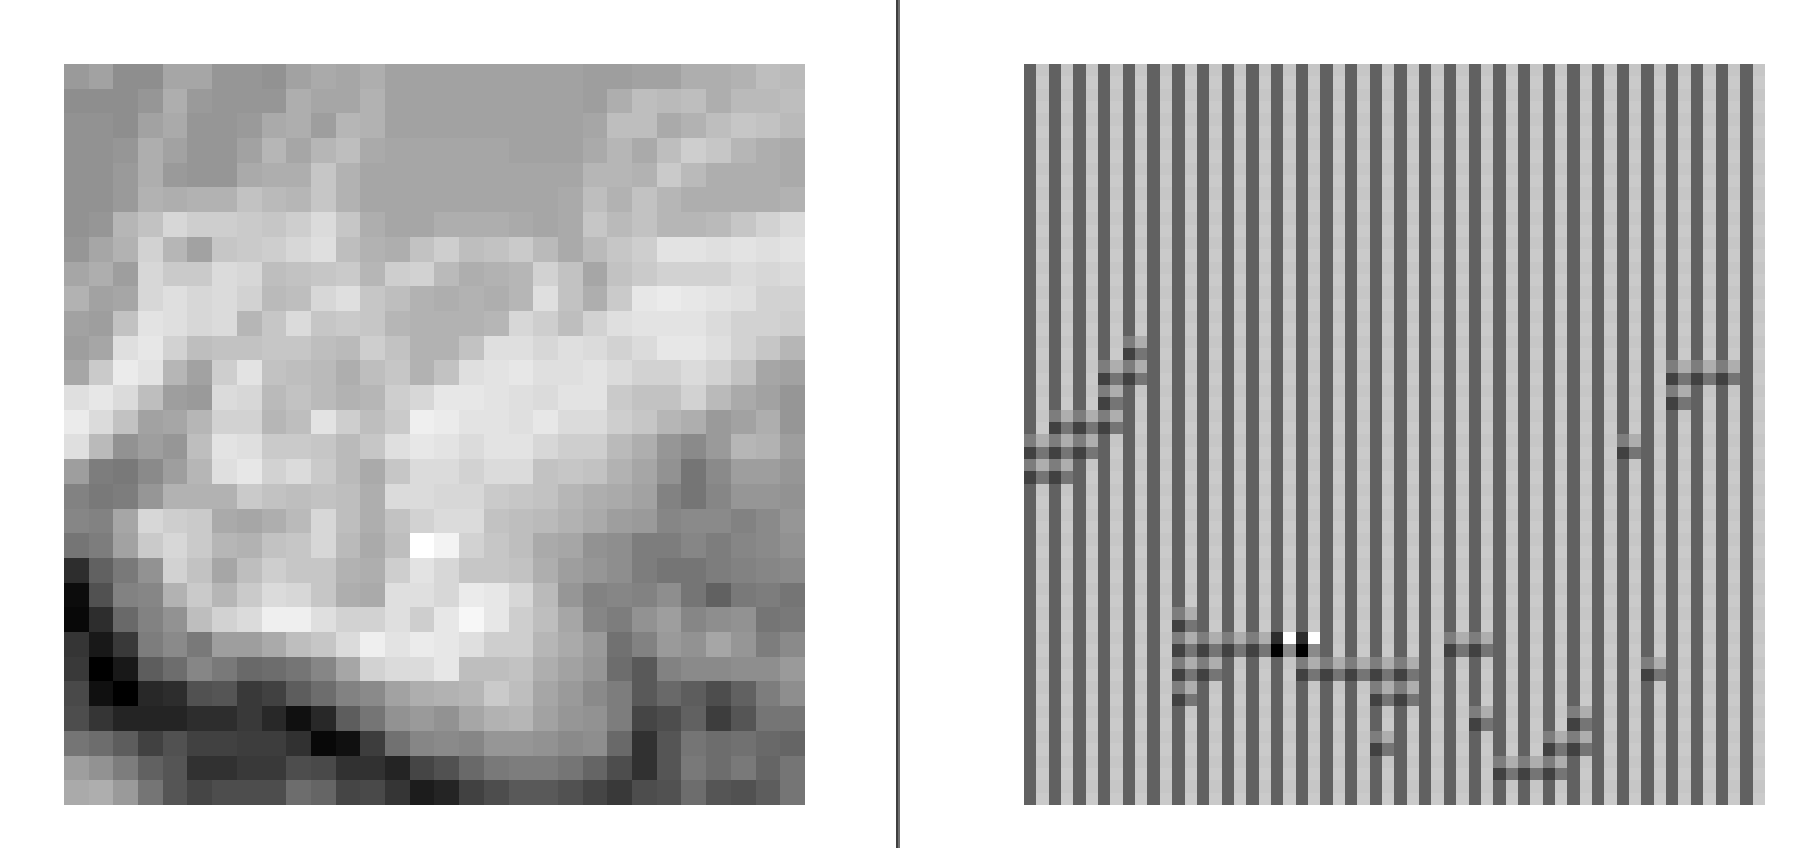
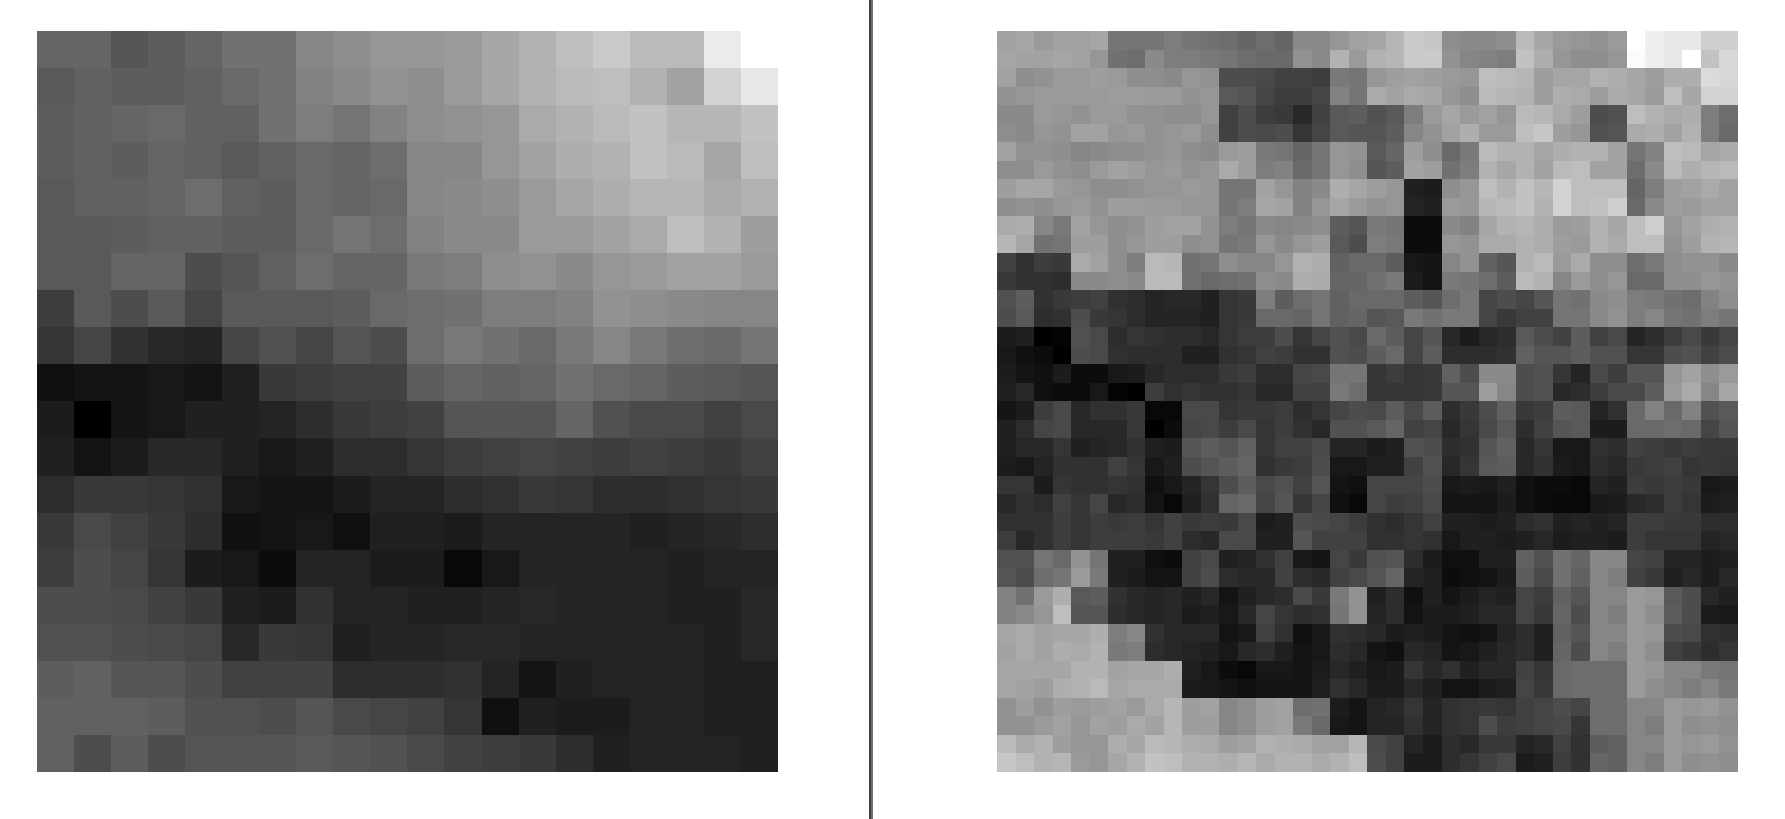
readme for knn

diff --git a/super_resolution.m b/super_resolution.m
@@ -171,16 +171,16 @@ if(nargin == 4 && param.method == -1)
     nb_folds=10;
     for k  = 1:size(ks)
       for r = 1:size(rs)
-        for i = 1:nb_folds
-          X=label_kv{i};
+        for n = 1:nb_folds
+          X=label_kv{n};
           im_test = images_test;
           for i = 1:t1
             for j = 1:t2
-              size(label_kt{i})
-              size(data_kv{1})
-              size(label_kt{i})
-              size(data_kt{i})
-              M = knn(data_kv{i}, label_kt{i}, data_kt{i}, k, r, i, j,R_); %calling knn algorithm for each pixel
+              size(label_kt{n})
+              size(data_kv{n})
+              size(label_kt{n})
+              size(data_kt{n})
+              M = knn(data_kv{n}, label_kt{n}, data_kt{n}, k, r, i, j,R_); %calling knn algorithm for each pixel
               for x = 1:R_
                 for y = 1:R_
                   result(R_*(i-1)+x, R_*(j-1)+y)=M(x,y); %filling the matrix with the result of knn

diff --git a/main.m b/main.m
@@ -18,10 +18,27 @@ figure(1);
   param.R = 1;
   res = super_resolution(images_apprentissage_lr(1:10, 1:10, 1:10), images_apprentissage_hr(1:20, 1:20, 1:10), images_test_lr(1:10, 1:10, 1:1),param);
  %}
-
+%{
 param.method = -1;
 param.R = 1;
 param.k = 5;
+param.rayon = 1;
+
+for k = 1:10
+images_apprentissage_lr(:,:,k) = mat2gray(images_apprentissage_lr(:,:,k));
+images_apprentissage_hr(:,:,k) = mat2gray(images_apprentissage_hr(:,:,k));
+end
+for k = 1:5
+images_test_lr(:,:,k) = mat2gray(images_test_lr(:,:,k));
+end
+
+
+res = super_resolution(images_apprentissage_lr(41:60, 41:60, 1:10), images_apprentissage_hr(31:70, 31:70, 1:10), images_test_lr(41:60, 41:60, 1:1),param);
+ %}
+
+param.method = -1;
+param.R = 1;
+param.k = 0;
 param.rayon = 1;
 
 for k = 1:10

diff --git a/readme.md b/readme.md
@@ -36,8 +36,8 @@ Les résultats à l'aide de la méthode SVM sont concluants: sur nos images test
 sont proches de ce que l'on souhaite obtenir.
 On remarque en particulier que l'ajout des données de gradient ne semble pas améliorer le résultat. Nous supposons que sur le peu de références utilisées, les gradients "éloignent" le résultat de la couleur attendue.
 
-## Méthode KNN
-Notre implémentation des KNN n'est pas concluante.
+## Méthode KNN
+Les résultats de la méthode KNN sont concluants. L'image obtenue est bien de meilleure résolution que l'image originale et lui ressemble. Pour chaque voisinage d'un pixel de l'image dont on veut améliorer la résolution, on trouve les k sous-matrices de la base de données les plus ressemblantes, puis on mélange les k sous-matrices hautes-résolution associées pour obtenir la matrice haute-résolution qui remplacera le pixel. L'image knnresult.png montre un résultat de cette méthode pour k=5 et rayon=1. L'apprentissage est fait sur 10 images.
 
 # Conclusion
 Ce projet nous a permis d'appliquer des méthodes d'apprentissage vues en cours
